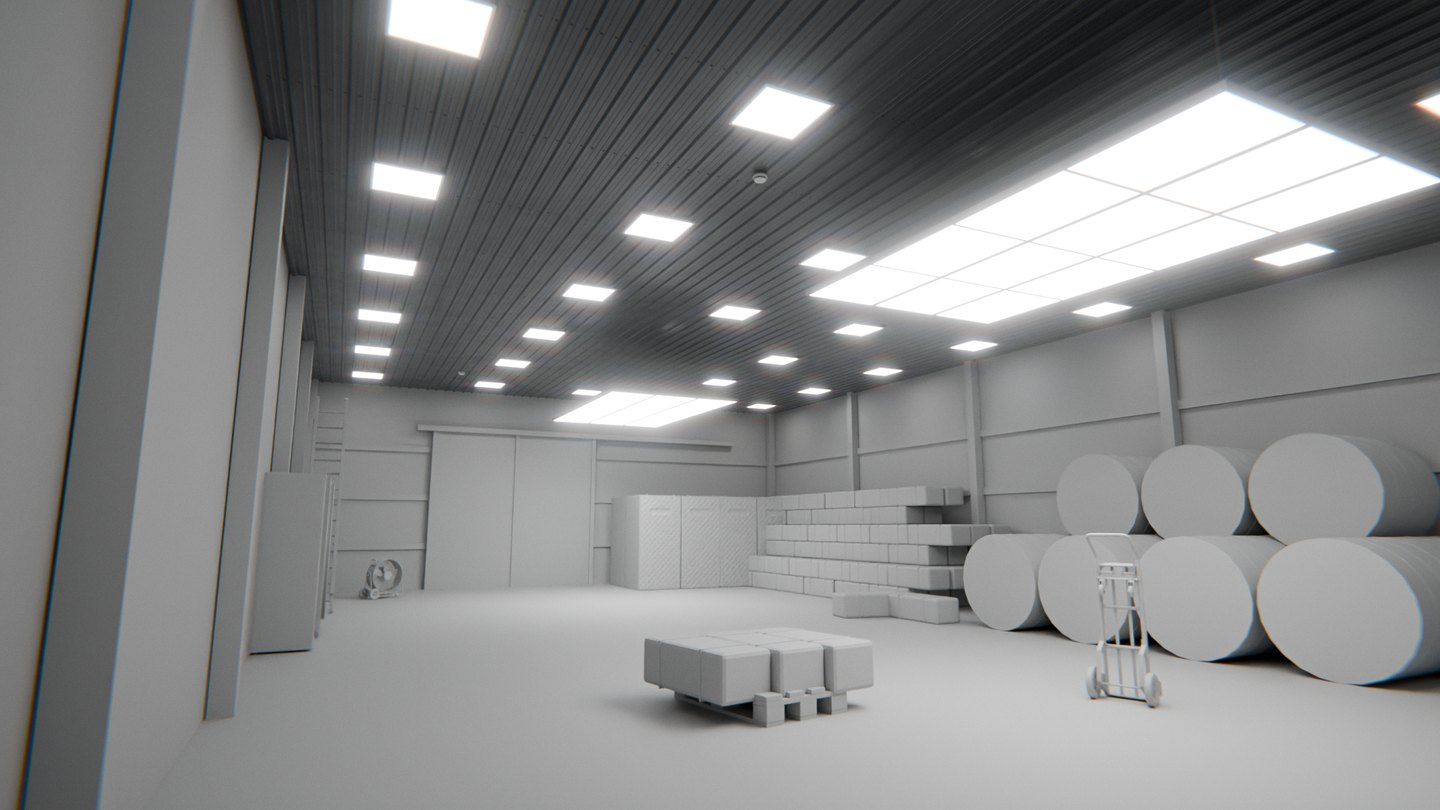
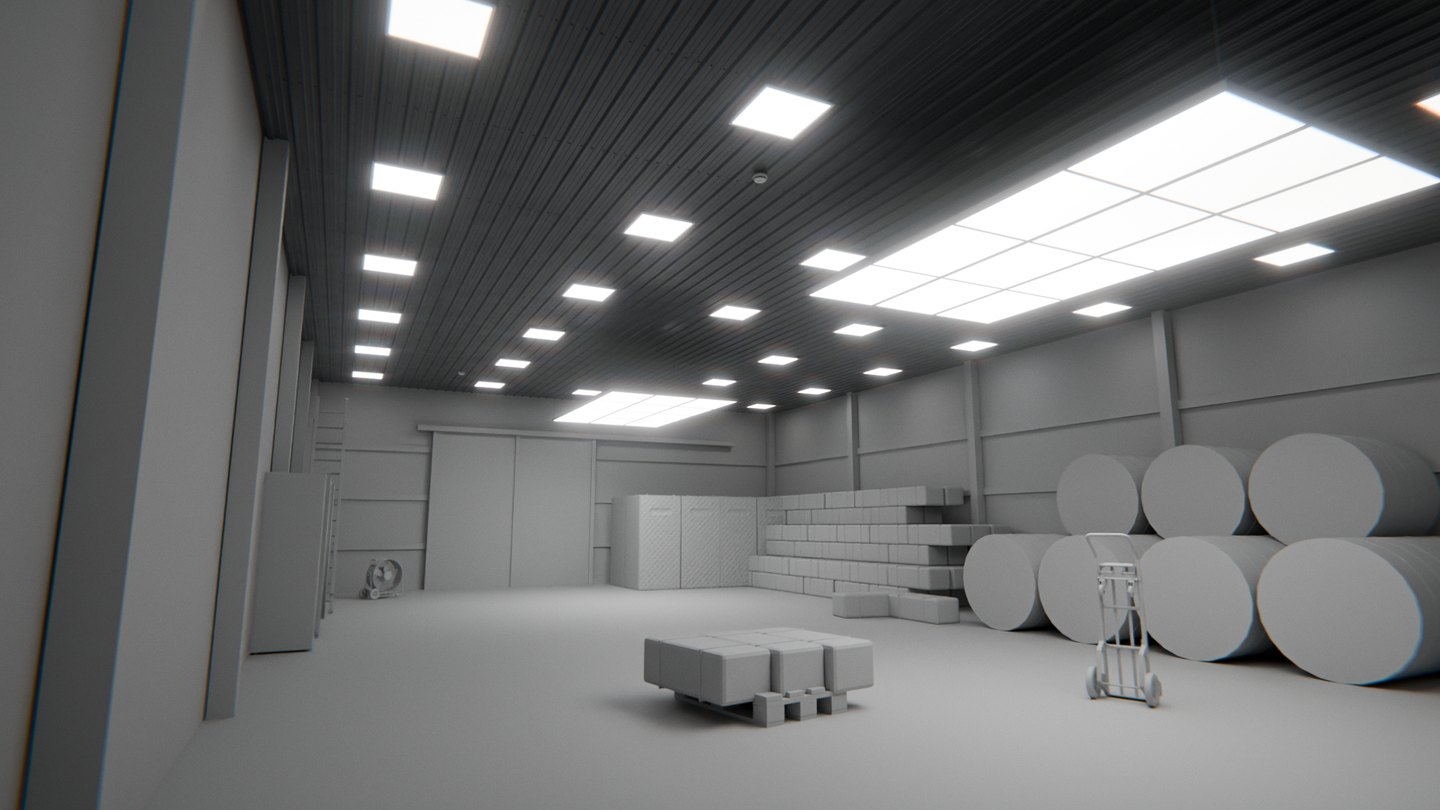
Sharper fixture sheet, new hero, kitchen and parking renders, edition table

diff --git a/index.html b/index.html
@@ -189,12 +189,13 @@
     ["All 9 systems, live updates", 1, 1, 1],
     ["Fixture library", 1, 1, 1],
     ["Make Editable Copy", 1, 1, 1],
-    ["Advanced settings and colours", 0, 1, 1],
+    ["System settings and colours", 0, 1, 1],
+    ["Take fixtures out, set their amount", 0, 1, 1],
     ["Bridge Slopes for pitched roofs", 0, 1, 1],
-    ["Light Objects", 0, 1, 1],
+    ["Light the Room", 0, 1, 1],
     ["Detailed materials", 0, 1, 1],
     ["Saved Looks", 0, 1, 1],
-    ["Pick exact fixture types", 0, 0, 1],
+    ["Add any fixture to any ceiling", 0, 0, 1],
     ["Your own models", 0, 0, 1],
   ];
   document.getElementById("ed").innerHTML = rows.map(([name, ...v], i) =>
